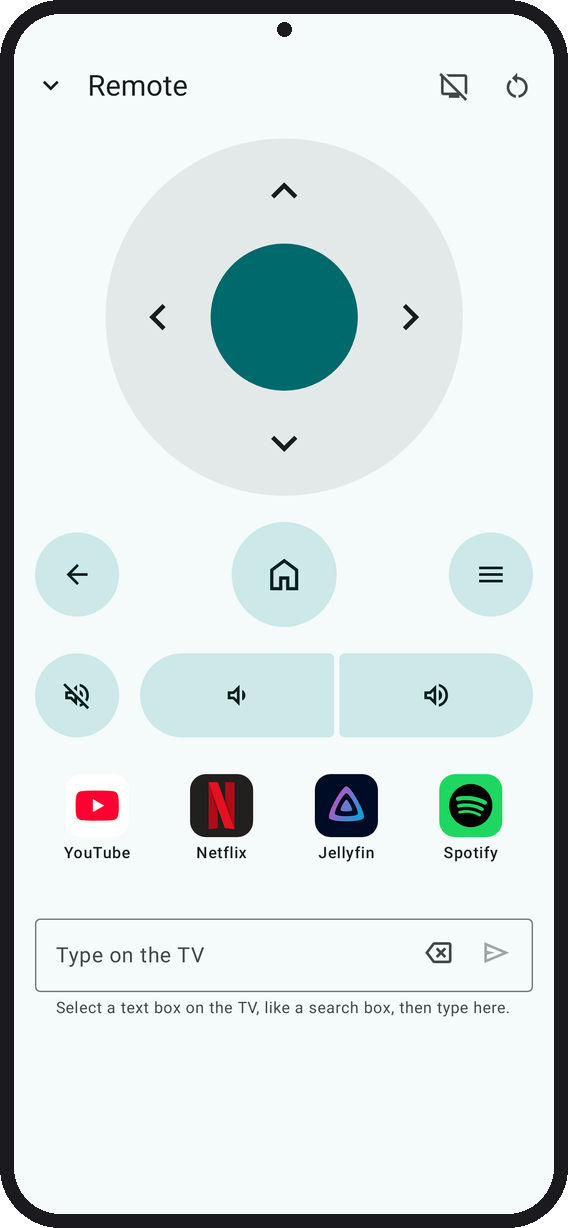
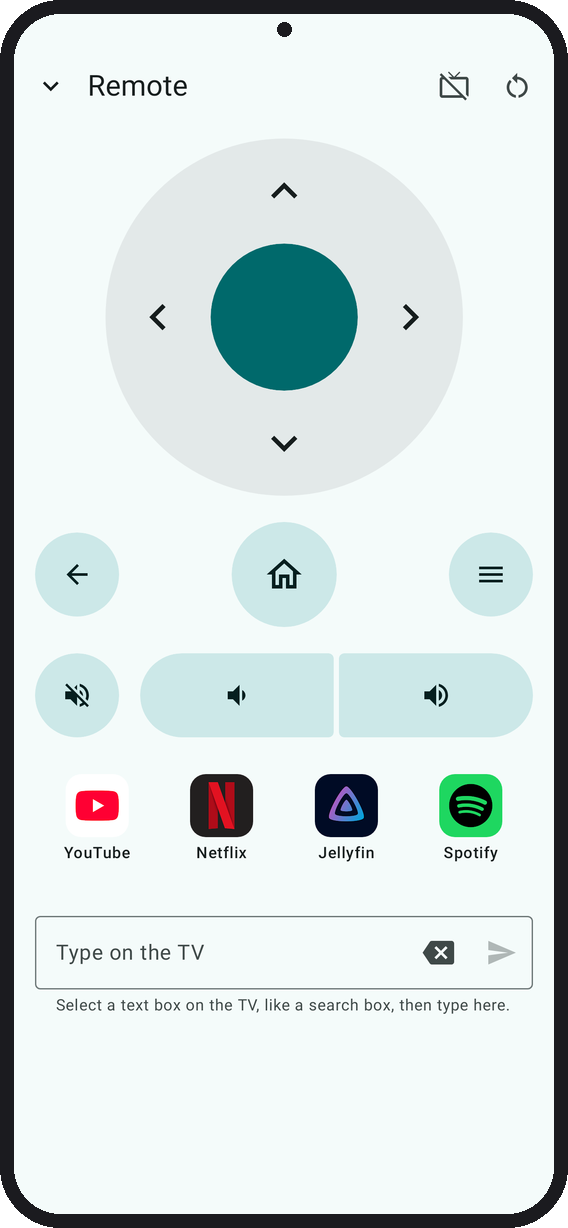
0.10.0: current Remote screenshot, plainer CHANGELOG
remote.png is re-rendered from the screenshot test, so it shows the
backspace key; the README footnote no longer calls it drawn. The 0.10.0
section is rewritten for someone coming from 0.9.0.

diff --git a/CHANGELOG.md b/CHANGELOG.md
@@ -12,16 +12,14 @@ until this file has a section for its version.
 
 ## 0.10.0 — 2026-10-26
 
-- **Improved:** Once you've added a launcher, its card hides; Tweaks keeps Choose one. [#165](../../pull/165)
-- **Fixed:** Only the launcher on Home is protected, or the TV's own with no default. [#163](../../pull/163)
-- **Improved:** The Remote's clear button is now a backspace; hold it to keep deleting. [#162](../../pull/162)
-- **New:** Uninstall the launcher on Home: Home switches back first, then it goes. [#158](../../pull/158)
-- **Improved:** A USB camera shows a camera icon and its name once, under Input. [#154](../../pull/154)
-- **Improved:** On Fire TV, the Remote's Home opens your default launcher. [#153](../../pull/153)
-- **New:** Install a recommended home screen from the TV's Play Store, then switch to it. [#152](../../pull/152)
-- **Improved:** A launcher's accessibility service turns on only if you say so, then or later. [#150](../../pull/150)
-- **Fixed:** A TV that removes this phone's access logs you out instead of re-asking. [#149](../../pull/149)
-- **New:** A connection left open after Remove offers Check again and Restart the TV. [#148](../../pull/148)
+- **New:** Pick a better home screen, install it from the Play Store and switch to it. [#152](../../pull/152)
+- **New:** Remove the home screen you're using; your TV switches back to its own first. [#158](../../pull/158)
+- **Improved:** A launcher's accessibility service only turns on if you say yes. [#150](../../pull/150)
+- **Improved:** The Remote's clear key deletes one letter; hold it to keep deleting. [#162](../../pull/162)
+- **Improved:** On Fire TV, the Remote's Home button opens your chosen home screen (tester needed). [#153](../../pull/153)
+- **Improved:** A USB camera shows up once, with a camera icon, under Input. [#154](../../pull/154)
+- **Fixed:** Only the home screen you actually use is protected from removal. [#163](../../pull/163)
+- **Fixed:** If your TV takes back this phone's access, you're logged out instead of asked again and again. [#149](../../pull/149)
 
 ## 0.9.0 — 2026-10-26
 

diff --git a/README.md b/README.md
@@ -43,7 +43,7 @@ Debloat your Android TV, install apps, and browse and transfer files on it, all 
   </tr>
 </table>
 
-<sub>Rendered from the app's screenshot tests with sample data. Remote, the Install dialog and the Tweaks launcher row are drawn to match the app, and Advanced joins parts of its longer page.</sub>
+<sub>Rendered from the app's screenshot tests with sample data. The Install dialog and the Tweaks launcher row are drawn to match the app, and Advanced joins parts of its longer page.</sub>
 
 ## Get it
 
